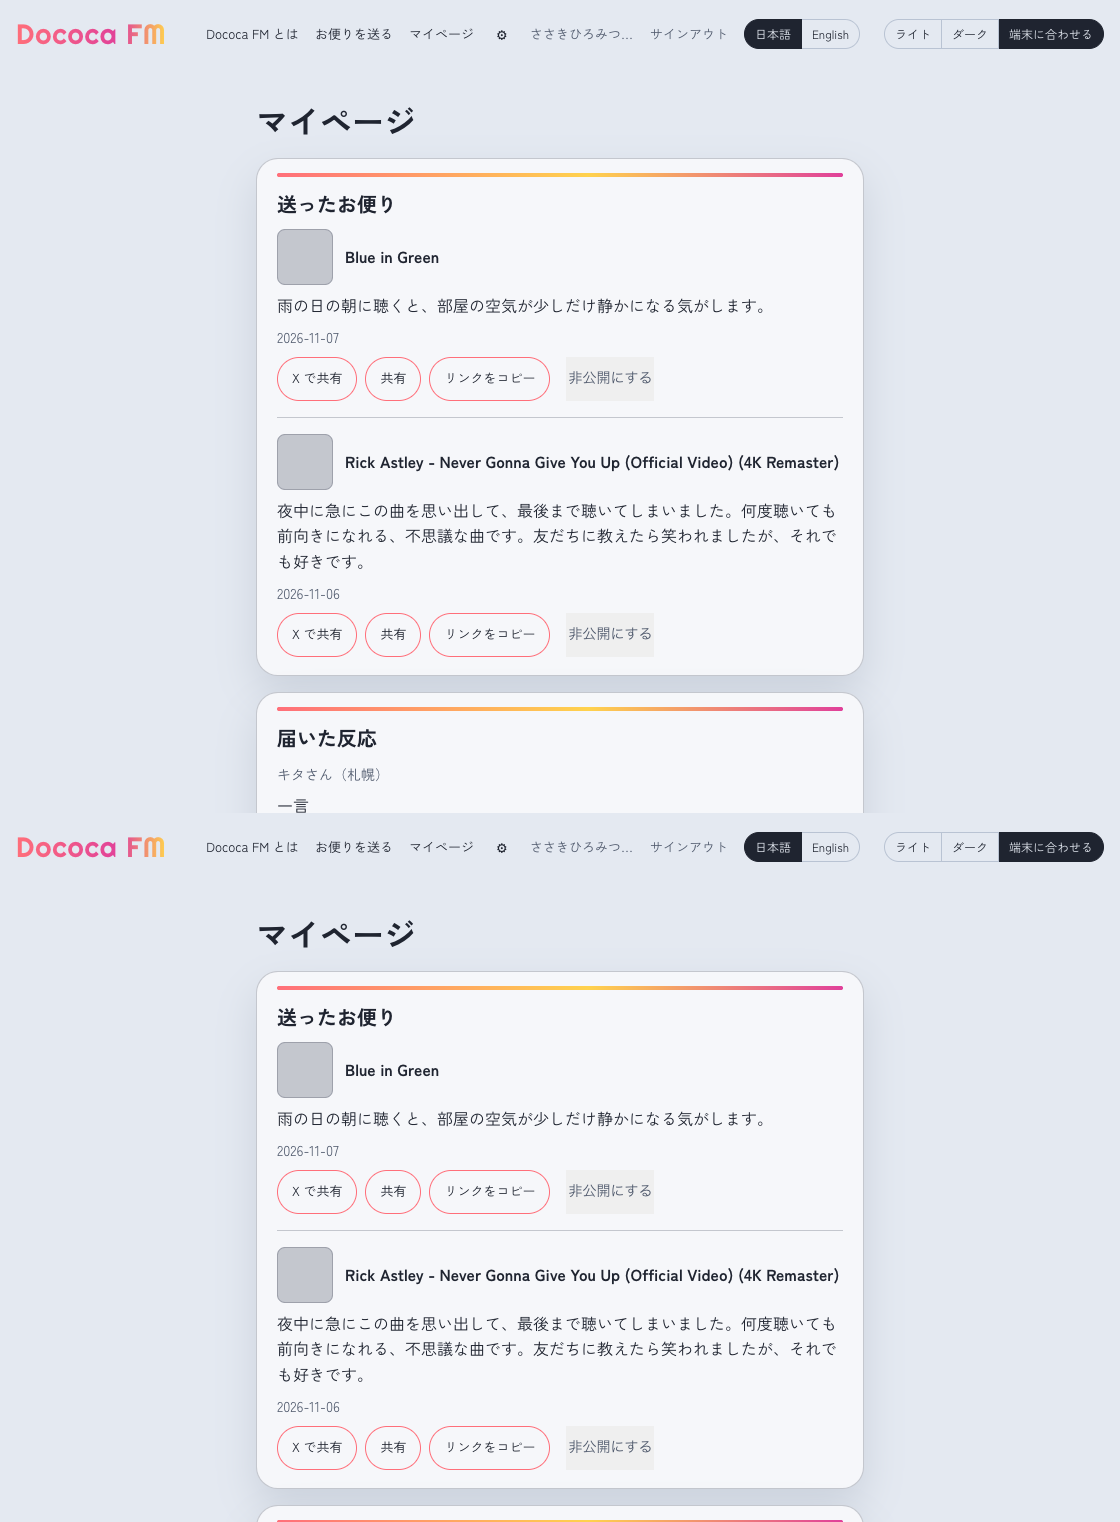
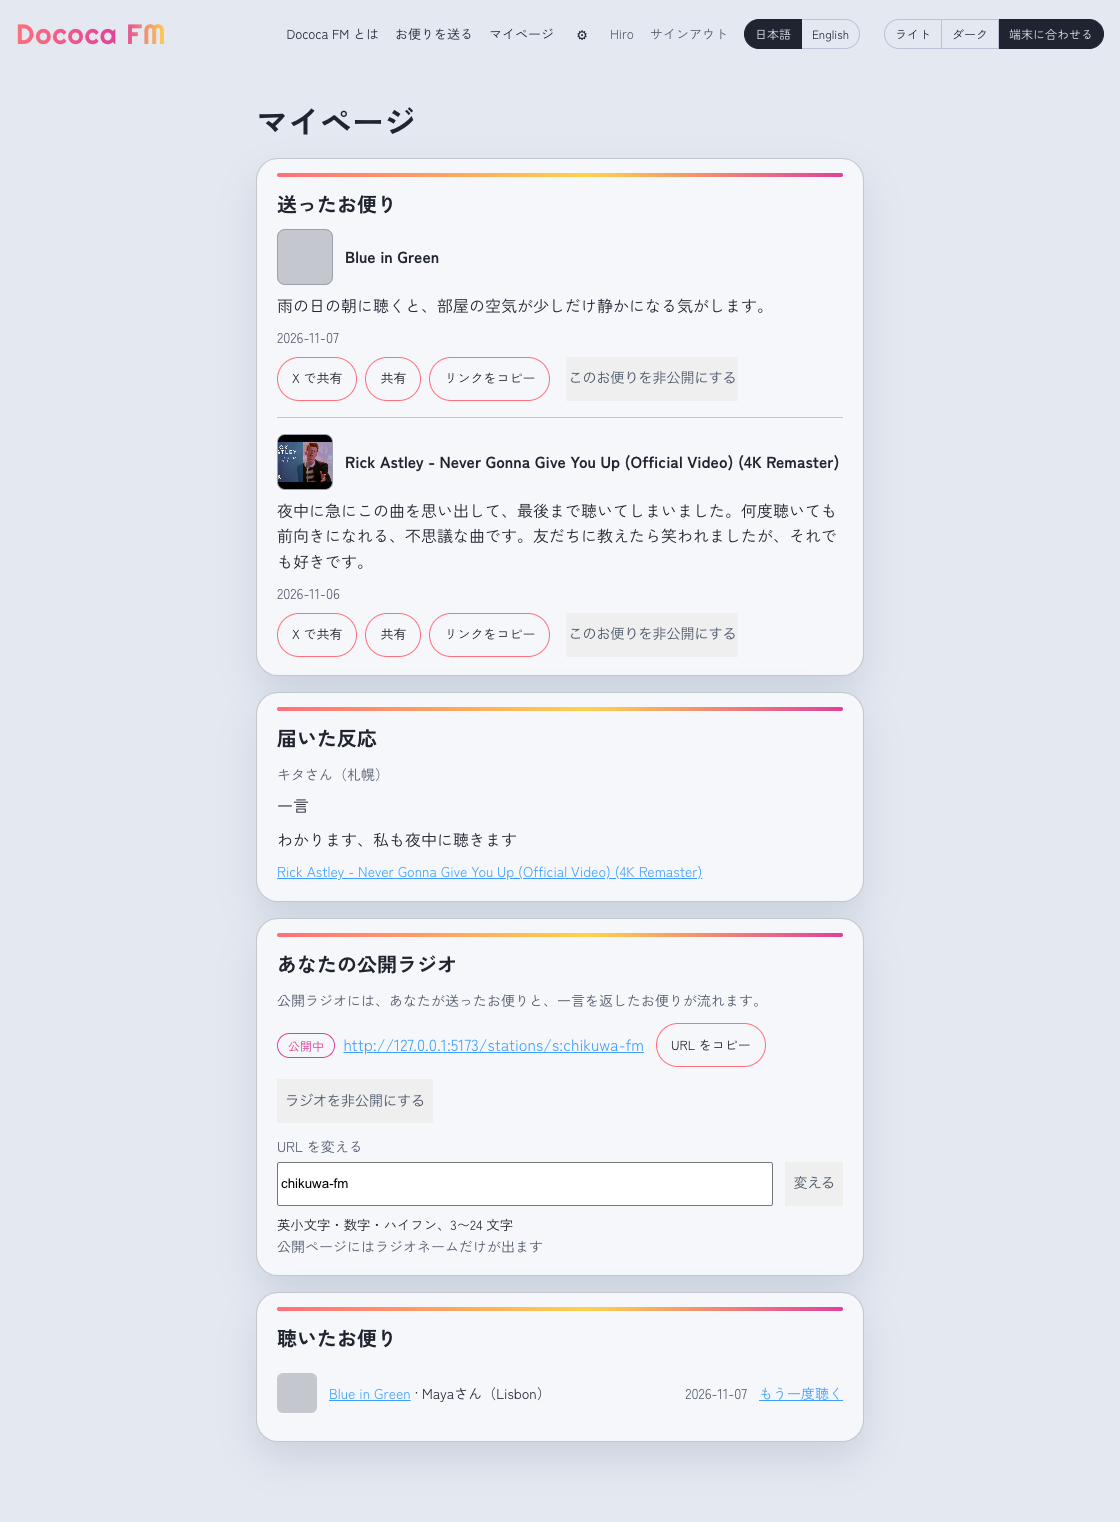
fix: my page buttons say what they make private
ラジオの切り替えは「ラジオを公開する／ラジオを非公開にする」、お便りは「このお便りを非公開にする」にして取り違えを防ぐ。
公開にするとき URL を用意できなければ、何も書かずにページを 503 で出し直し「公開ラジオの URL を用意できませんでした。もう一度試してください」と出す。

diff --git a/test/worker/routes/me.test.ts b/test/worker/routes/me.test.ts
@@ -1,9 +1,10 @@
 import { SELF } from "cloudflare:test";
 import { env } from "cloudflare:workers";
-import { beforeEach, describe, expect, it } from "vitest";
+import { beforeEach, describe, expect, it, vi } from "vitest";
 import { upsertHistory } from "../../../src/worker/db/history";
 import { insertItem } from "../../../src/worker/db/items";
 import { getLetter, insertLetter, setLetterStatus } from "../../../src/worker/db/letters";
+import * as listeners from "../../../src/worker/db/listeners";
 import { createListener, updateListener } from "../../../src/worker/db/listeners";
 import { insertEpisode } from "../../../src/worker/db/episodes";
 import { recordListen } from "../../../src/worker/db/listens";
@@ -113,7 +114,7 @@ describe("GET /me", () => {
     expect(off).toContain(`data-copy="${url}"`);
     // Private: the url is shown but not a link, and the toggle offers to make it public.
     expect(off).not.toContain(`href="${url}"`);
-    expect(off).toMatch(/<form method="post" action="\/me\/radio"[^>]*>[\s\S]*?name="public" value="1"[\s\S]*?<button type="submit"[^>]*>公開する<\/button>/);
+    expect(off).toMatch(/<form method="post" action="\/me\/radio"[^>]*>[\s\S]*?name="public" value="1"[\s\S]*?<button type="submit"[^>]*>ラジオを公開する<\/button>/);
     expect(off).toMatch(/<input type="text" name="slug"[^>]*value="hiro-fm"/);
     expect(off).toContain("公開ラジオには、あなたが送ったお便りと、一言を返したお便りが流れます。");
     expect(off).toContain(t("me.radioNameOnly"));
@@ -121,7 +122,7 @@ describe("GET /me", () => {
     await updateListener(env.DB, idOf(cookie), { stationPublic: true });
     const on = panelOf(await (await get("/me", cookie)).text());
     expect(on).toContain(`href="${url}"`);
-    expect(on).toMatch(/name="public" value="0"[\s\S]*?<button type="submit"[^>]*>非公開にする<\/button>/);
+    expect(on).toMatch(/name="public" value="0"[\s\S]*?<button type="submit"[^>]*>ラジオを非公開にする<\/button>/);
     expect(on).not.toMatch(/\d+ ?件/);
   });
 
@@ -233,7 +234,7 @@ describe("own letters and POST /letters/:id/withdraw", () => {
     expect(panel).not.toContain("取り下げ済み");
     expect(panel).not.toContain("他人のお便り");
     expect(panel.match(new RegExp(`action="/letters/(${l1.id}|${l2.id})/withdraw"`, "g"))).toHaveLength(2);
-    expect(panel).toContain(t("me.withdraw"));
+    expect(panel).toContain("このお便りを非公開にする");
     expect(panel).toContain(t("me.withdrawConfirm"));
     expect(panel).not.toMatch(/\d+ ?件/);
     // Share: the letter's public page and a short text with the work and the radio name; nothing private.
@@ -331,6 +332,19 @@ describe("POST /me/radio", () => {
     const row = await rowOf(idOf(cookie));
     expect(row?.pub).toBe(1);
     expect(row?.slug).toMatch(/^radio-[0-9a-z]{6}$/);
+  });
+
+  it("re-renders the page with a short message and writes nothing when the address cannot be assigned", async () => {
+    const spy = vi.spyOn(listeners, "setStationSlugIfNone").mockRejectedValue(new Error("D1 unavailable"));
+    try {
+      const cookie = await signedInSession();
+      const res = await radio(cookie, { public: "1" });
+      expect(res.status).toBe(503);
+      expect(await res.text()).toContain("公開ラジオの URL を用意できませんでした。もう一度試してください");
+      expect(await rowOf(idOf(cookie))).toEqual({ pub: 0, slug: null });
+    } finally {
+      spy.mockRestore();
+    }
   });
 
   it("changes the slug (trimmed, lower-cased) without touching public", async () => {

diff --git a/src/worker/routes/me.tsx b/src/worker/routes/me.tsx
@@ -25,8 +25,10 @@ const isHttp = (s: string | null): s is string => s !== null && /^https?:\/\//i.
 
 type MeContext = Context<{ Bindings: Env; Variables: Variables }>;
 
-/** What the public radio panel shows after a refused change: the slug as typed, and why. */
-type RadioError = { slug: string; reason: "taken" | "invalid" };
+/** What the public radio panel shows after a refused change: the slug as typed, and why. `failed`: no address could be assigned. */
+type RadioError = { slug: string; reason: "taken" | "invalid" | "failed" };
+
+const RADIO_ERROR_TEXT = { taken: "me.slugTaken", invalid: "me.slugInvalid", failed: "me.radioFailed" } as const;
 
 export const me = new Hono<{ Bindings: Env; Variables: Variables }>();
 
@@ -124,7 +126,7 @@ async function renderMe(c: MeContext, signedIn: Listener, radioError?: RadioErro
           )}
           <form method="post" action="/me/radio" class="me-radio-toggle">
             <input type="hidden" name="public" value={listener.stationPublic ? "0" : "1"} />
-            <button type="submit" class={listener.stationPublic ? "quiet" : undefined}>{t(listener.stationPublic ? "me.radioMakePrivate" : "me.radioMakePublic")}</button>
+            <button type="submit" class={listener.stationPublic ? "quiet" : undefined}>{t(listener.stationPublic ? "me.radioUnpublish" : "me.radioPublish")}</button>
           </form>
           <form method="post" action="/me/radio" class="me-radio-slug">
             <label>
@@ -133,7 +135,7 @@ async function renderMe(c: MeContext, signedIn: Listener, radioError?: RadioErro
             </label>
             <button type="submit" class="quiet">{t("me.radioSlugSave")}</button>
             <small>{t("me.radioSlugHelp")}</small>
-            {radioError && <p class="settings-error" role="alert">{t(radioError.reason === "taken" ? "me.slugTaken" : "me.slugInvalid")}</p>}
+            {radioError && <p class="settings-error" role="alert">{t(RADIO_ERROR_TEXT[radioError.reason])}</p>}
           </form>
           <p class="muted">{t("me.radioNameOnly")}</p>
         </section>
@@ -158,7 +160,7 @@ async function renderMe(c: MeContext, signedIn: Listener, radioError?: RadioErro
         </section>
       </main>
     </Layout>,
-    radioError ? 422 : 200,
+    !radioError ? 200 : radioError.reason === "failed" ? 503 : 422,
   );
 }
 
@@ -182,7 +184,14 @@ me.post(
     const form = c.req.valid("form");
     if ("public" in form) {
       // Turning it on needs an address; one signed in before addresses were assigned gets it now.
-      if (form.public === "1") await ensureStationSlug(c.env.DB, listener);
+      // If that fails nothing is written: the page says so and the listener can try again.
+      if (form.public === "1") {
+        try {
+          await ensureStationSlug(c.env.DB, listener);
+        } catch {
+          return renderMe(c, listener, { slug: listener.stationSlug ?? "", reason: "failed" });
+        }
+      }
       await updateListener(c.env.DB, listener.id, { stationPublic: form.public === "1" });
       return c.redirect("/me#radio", 303);
     }

diff --git a/src/worker/i18n/ja.ts b/src/worker/i18n/ja.ts
@@ -247,7 +247,7 @@ export const ja = {
   "me.reply": "一言",
   "me.myLetters": "送ったお便り",
   "me.myLettersNone": "まだお便りを送っていません",
-  "me.withdraw": "非公開にする",
+  "me.withdraw": "このお便りを非公開にする",
   "me.withdrawConfirm": "このお便りを非公開にします。ラジオにも、作品のページにも出なくなります。よろしいですか？",
   "home.publicRadios": "お便りが届いた公開ラジオ",
   "me.heard": "聴いたお便り",
@@ -258,8 +258,9 @@ export const ja = {
   "me.radioIsPublic": "公開中",
   "me.radioIsPrivate": "非公開",
   "me.radioCopy": "URL をコピー",
-  "me.radioMakePublic": "公開する",
-  "me.radioMakePrivate": "非公開にする",
+  "me.radioPublish": "ラジオを公開する",
+  "me.radioUnpublish": "ラジオを非公開にする",
+  "me.radioFailed": "公開ラジオの URL を用意できませんでした。もう一度試してください",
   "me.radioSlug": "URL を変える",
   "me.radioSlugSave": "変える",
   "me.radioSlugHelp": "英小文字・数字・ハイフン、3〜24 文字",

diff --git a/src/worker/i18n/en.ts b/src/worker/i18n/en.ts
@@ -250,7 +250,7 @@ export const en: Record<keyof typeof ja, string> = {
   "me.reply": "A note",
   "me.myLetters": "Your letters",
   "me.myLettersNone": "You haven't sent a letter yet",
-  "me.withdraw": "Make private",
+  "me.withdraw": "Make this letter private",
   "me.withdrawConfirm": "This letter will be made private. It will no longer appear on the radio or on the work's page. Continue?",
   "home.publicRadios": "Public radios with new letters",
   "me.heard": "Letters you've heard",
@@ -261,8 +261,9 @@ export const en: Record<keyof typeof ja, string> = {
   "me.radioIsPublic": "Public",
   "me.radioIsPrivate": "Private",
   "me.radioCopy": "Copy URL",
-  "me.radioMakePublic": "Make public",
-  "me.radioMakePrivate": "Make private",
+  "me.radioPublish": "Make the radio public",
+  "me.radioUnpublish": "Make the radio private",
+  "me.radioFailed": "Your public radio's URL could not be set up. Please try again",
   "me.radioSlug": "Change the URL",
   "me.radioSlugSave": "Change",
   "me.radioSlugHelp": "Lower-case letters, digits and hyphens, 3 to 24 characters",

diff --git a/docs/DESIGN.md b/docs/DESIGN.md
@@ -74,7 +74,7 @@ CSS 変数は `:root` にライト、`@media (prefers-color-scheme: dark)` と `
 | このあと流れるもの | 種別ラベル（magenta、11px）と作品名・作者の行。上罫 1px `--line` | 数字（順番）を付けない |
 | 説明ページ（`/about`） | `main.about`: `h1`「Dococa FM とは」、リードの一文、`.panel` を縦に 4 枚（聴く / 送る / 自分のラジオ / できること・しないこと。各 `h2`、直下に `div.rule`（3px のグラデーション帯、パネルの全幅。このページの例外で、`.panel-rule-under` は上端の 4px の帯を出さない）、挿絵 `figure.about-art`（`/about/<name>.jpg`、16:9、角丸はホームの KV と同じ 16px）、本文 1 段落）。幅と余白は `/put` と同じ。ヘッダの「Dococa FM とは」はこのページで太字・下線（`aria-current="page"`） | 件数・「局」・時事は書かない。お便りは原文のまま、の約束を載せる |
 | お便りを送るページ（`/put`） | `.panel` を縦に 3 枚。「作品を決める」（URL を貼る / 好きなものから選ぶ / 題名で探す を細い上罫で区切る。選んだ作品はパネルの頭にカード）→「お便りを書く」（作品を選んだときだけ）→「ブックマークレット」（ドラッグできる `a.button` と、ブックマークに追加の 3 行）。検索結果は 64px の絵つきのカードを枠線 1px `--line`、丸角 12px のリンクにする | 題名で探すはサインイン済みだけ。匿名にはサインインの案内。結果に順位や件数を付けない |
-| マイページ（`/me`） | 初めてサインインした直後（`/me?welcome=1`）は見出しの下に 1 行（`.notice`）「公開ラジオの URL ができました: …（下の「あなたの公開ラジオ」で公開にすると誰でも聴けます）」。URL はページが履歴から消すので、再読み込みでは出ない。`.panel` を縦に 4 枚: 「送ったお便り」→「届いた反応」→「あなたの公開ラジオ」→「聴いたお便り」。送ったお便り（`.me-letters`、自分の公開のお便りだけ、新しい順）は上罫で区切った縦の並びで、1 通ごとに 56px の絵（角丸 8px、無ければ空の箱）と作品名（作品ページへのリンク、700）・お便りの先頭 80 字・日付（JST）、その下に 1 行で `div.share`（`.pill`「X で共有」「共有」（Web Share API のある端末だけ）「リンクをコピー」、どれも 44px）と `button.quiet`「非公開にする」（押すと確認ダイアログ「このお便りを非公開にします。ラジオにも、作品のページにも出なくなります。よろしいですか？」のあと取り下げて `/me` に戻る）。共有の文は「{作品} · {ラジオネーム}さんのお便り — Dococa FM」と `/letters/<id>` だけ。1 通も無いときは一文。あなたの公開ラジオ（`#radio`）は、一文「公開ラジオには、あなたが送ったお便りと、一言を返したお便りが流れます。」、状態の小さな丸札（「公開中」は `--magenta`、「非公開」は `--ink-2`）と URL（公開中はリンク、非公開は `code`）と `.pill`「URL をコピー」、切り替えのボタン 1 つ（非公開なら塗りの「公開する」、公開中なら `button.quiet`「非公開にする」）、URL を変えるフォーム（入力と `button.quiet`「変える」が 1 行、下に「英小文字・数字・ハイフン、3〜24 文字」。使われている URL は「この URL は使われています」）、最後に「公開ページにはラジオネームだけが出ます」。聴いたお便り（最下部、`ul.me-rows`）は 1 通 1 行: 40px の絵・作品名 · 送り主・日付・「もう一度聴く」。本文もフォームも無い。反応は上罫 1px `--line` で区切った縦の並び。「あなたの好きなもの」の欄は無い（好きなものはデータとして残る）。ページ内にサインアウトのフォームは置かない（ヘッダにある） | 空のときの文言はそのまま。数字は付けない |
+| マイページ（`/me`） | 初めてサインインした直後（`/me?welcome=1`）は見出しの下に 1 行（`.notice`）「公開ラジオの URL ができました: …（下の「あなたの公開ラジオ」で公開にすると誰でも聴けます）」。URL はページが履歴から消すので、再読み込みでは出ない。`.panel` を縦に 4 枚: 「送ったお便り」→「届いた反応」→「あなたの公開ラジオ」→「聴いたお便り」。送ったお便り（`.me-letters`、自分の公開のお便りだけ、新しい順）は上罫で区切った縦の並びで、1 通ごとに 56px の絵（角丸 8px、無ければ空の箱）と作品名（作品ページへのリンク、700）・お便りの先頭 80 字・日付（JST）、その下に 1 行で `div.share`（`.pill`「X で共有」「共有」（Web Share API のある端末だけ）「リンクをコピー」、どれも 44px）と `button.quiet`「このお便りを非公開にする」（押すと確認ダイアログ「このお便りを非公開にします。ラジオにも、作品のページにも出なくなります。よろしいですか？」のあと取り下げて `/me` に戻る）。共有の文は「{作品} · {ラジオネーム}さんのお便り — Dococa FM」と `/letters/<id>` だけ。1 通も無いときは一文。あなたの公開ラジオ（`#radio`）は、一文「公開ラジオには、あなたが送ったお便りと、一言を返したお便りが流れます。」、状態の小さな丸札（「公開中」は `--magenta`、「非公開」は `--ink-2`）と URL（公開中はリンク、非公開は `code`）と `.pill`「URL をコピー」、切り替えのボタン 1 つ（非公開なら塗りの「ラジオを公開する」、公開中なら `button.quiet`「ラジオを非公開にする」。お便りの「このお便りを非公開にする」と取り違えないよう、どちらも何を非公開にするかを言う）、URL を変えるフォーム（入力と `button.quiet`「変える」が 1 行、下に「英小文字・数字・ハイフン、3〜24 文字」。使われている URL は「この URL は使われています」。公開にするときに URL を用意できなければ何も書かずに「公開ラジオの URL を用意できませんでした。もう一度試してください」）、最後に「公開ページにはラジオネームだけが出ます」。聴いたお便り（最下部、`ul.me-rows`）は 1 通 1 行: 40px の絵・作品名 · 送り主・日付・「もう一度聴く」。本文もフォームも無い。反応は上罫 1px `--line` で区切った縦の並び。「あなたの好きなもの」の欄は無い（好きなものはデータとして残る）。ページ内にサインアウトのフォームは置かない（ヘッダにある） | 空のときの文言はそのまま。数字は付けない |
 | ヘッダ `.site-header` | ワードマーク、ナビ（Dococa FM とは（全員に。表示中のページは `aria-current="page"`）/ お便りを送る / マイページ / 設定（サインイン済みだけ。どの幅でも歯車 ⚙ だけ、`aria-label` と `title` は「設定」）/ サインイン。サインイン済みは名前だけ（「… としてサインイン中」は `title`。8em を超えると「…」）とサインアウト（左右の余白なし））、言語切替（日本語 / English。`POST /lang`、現在の言語が押された状態）、テーマ切替の順。言語とテーマは同じ丸い 2〜3 連ボタン `.lang-toggle` / `.theme-toggle`。幅 1080px 以下では言語を `JA` / `EN`、テーマを ☀ / ☾ / 端末の短い表記にし（どれも `aria-label` は正式名）、ナビの間を詰める。サインイン済みでも、名前の長さや反応の点にかかわらず 761px まで 1 行に収める（ナビは折り返さずに縮み、1000px 未満では名前を畳み、サインアウトは残す）。幅 760px 以下では 1 行目にワードマークと 2 つの切替、2 行目にナビを 1 行で（420px 以下ではナビの間を 4px に詰める）。言語切替は、ラジオが鳴っている間だけ「切り替えると再生が止まります。続けますか？」と確認する。サインイン済みで、自分のお便りに人の私も・一言が `/me` を最後に開いたあとに届いていれば、`マイページ` の右上に重ねて（幅を取らない）8px の `--magenta` の点（`span.dot`、`role="img"`、`aria-label`「新しい反応があります」）。`/me` を開くと消え、`/me` では出さない | 反応の点に数字は付けない。言語切替は各言語の自言語名（日本語 / English）。設定ページに言語欄は無い |
 | 共有ページ（`/letters/:id`）と `.embed-player` | `main.letter-page`（幅 40rem、縦に `gap` 16px）: 作品のカード → お便り（`.letter`。主文・原文トグル・送り主、私も・一言・通報）→ `.embed-player` → `a.button`「ラジオで続きを聴く」（`/?letter=<id>`）。`.embed-player` は `--panel` の地・丸角 22px・影、左に 96px の絵（無ければ coral → magenta）、右に作品名（700、1 行で省略）・送り主（`--ink-2`）・いま読んでいる行（2 行まで）・再生ボタン（magenta の塗り・`--on-magenta` の文字）。プレイヤーのページ（`/letters/:id/player`、480×200 の枠）は同じ部品だけを `data-theme="dark"` で全面に出し、ヘッダは無く、「Dococa FM で聴く」（`--sky`、`target="_top"`）を足す | 再生中はボタンが「一時停止」。音声の無い行は文字だけを読む長さだけ出して次へ |
 
